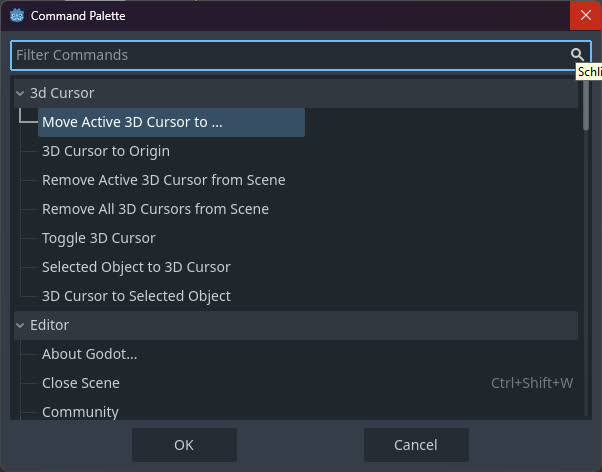
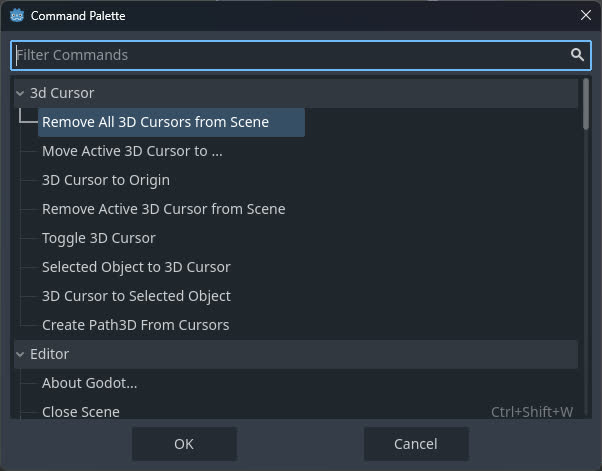
Updated Videos, Screenshots, CHANGELOG, and README.

diff --git a/README.md b/README.md
@@ -6,6 +6,7 @@ It provides an intuitive and precise way to place and position nodes within a 3D
 ## Features
 - Intuitive *3D Cursor* placement directly in the editor
 - Precise node placement for all `Node3D`-based nodes
+- Precise placement for points of a `Path3D`s curve
 - Multiple cursor actions via *Pie Menu*, *Command Palette* and *Settings Dock*
 - Customizable cursor appearance and behavior
 - Multiple independent *3D Cursor* instances per scene
@@ -35,6 +36,7 @@ It provides an intuitive and precise way to place and position nodes within a 3D
 | **Remove Active 3D Cursor from Scene** | Removes the active cursor from the scene and frees it.                                                                                                                                                                                                                          | *Pie Menu*, *Command Palette*, *Settings Dock* |    ❌     |
 | **Remove All 3D Cursors from Scene**   | Removes all cursors from the scene.                                                                                                                                                                                                                                             | *Pie Menu*, *Command Palette*, *Settings Dock* |    ❌     |
 | **Move Active 3D Cursor to ...**       | Moves the active cursor to either a selected `Node3D` or to coordinates extracted from dragged object properties.                                                                                                                                                               | *Command Palette*, *Settings Dock*             |    ✅     |
+| **Create Path3D From Cursors**         | Creates a new `Path3D` node as a child of a selected `Node3D`. Its curve is built from all 3D Cursor positions in the active scene, ordered alphabetically.<br><br>![Create Path3D From All Cursors](videos/path_3d_from_all_cursors.gif)                                       | *Command Palette*, *Settings Dock*             |    ❌     |
 
 ## Pie Menu
 The *Pie Menu* provides quick access to common *3D Cursor* actions directly within the editor.
@@ -50,7 +52,7 @@ The *Pie Menu* provides quick access to common *3D Cursor* actions directly with
 
 ### Raycast Mode
 - **Physicsless**: Does not require collision shapes to calculate the mouse click position, allowing physics to run on another thread. Compatible with **Terrain3D** by *TokisanGames*.
-- **Physics** *(Legacy)*: Requires collision shapes to calculate the mouse click position. Physics must not run on another thread. Partially compatible with **Terrain3D** by *TokisanGames* (see issue ![#3](https://github.com/Dev-Marco/Godot-3D-Cursor/issues/6)).
+- **Physics** *(Legacy)*: Requires collision shapes to calculate the mouse click position. Physics must not run on another thread. Partially compatible with **Terrain3D** by *TokisanGames* (see issue [#3]).
 
 ![Raycast Mode](screenshots/settings_dock_raycast_mode.jpg)
 
@@ -100,6 +102,15 @@ Dragging a valid node or object property onto the button reveals the extracted t
 
 ![Move Active 3D Cursor to](videos/drag_node_on_move_button.gif)
 
+### Path3D Compatibility
+When a `Path3D` node is selected in the scene tree, adding a new point to its curve will place the point at the position of the active 3D Cursor. This requires exactly one selected node and an active 3D Cursor.
+
+![Path3D Point to Cursor](videos/path_3d_point_to_cursor.gif)
+
+When a single `Path3D` node is selected, additional points can be added directly to its curve by placing extra cursors using `Shift + Ctrl + Right Click`. New points are always appended to the end of the curve.
+
+![Path3D Point on New Cursor](videos/path_3d_point_on_new_cursor.gif)
+
 ## Quick Start
 - Enable the plugin
 - Within a 3D scene, use `Shift + Right Click` on any mesh-based node or node inheriting from `CSGShape3D` to place a *3D Cursor*
@@ -114,6 +125,10 @@ Dragging a valid node or object property onto the button reveals the extracted t
 
   **Workaround:** Press `F` to reset the editor focus and restore the expected navigation behavior.
 - A more robust solution is being investigated, but this behavior is currently caused by editor-internal state handling.
+
+### Plugin Compatibility
+If you are developing a Godot plugin or addon and believe compatibility with this plugin would be useful, feel free to reach out.
+Compatibility and integration are handled on this plugin’s side where possible.
 
 ## Requirements
 - **Godot 4.2** or newer

diff --git a/CHANGELOG.md b/CHANGELOG.md
@@ -13,6 +13,20 @@ and this project adheres to [Semantic Versioning](https://semver.org/spec/v2.0.0
 > - **1.4.x (LTS)** supports **Godot 4.2+** and receives bug fixes only.
 > - **2.x.x** supports **Godot 4.5+** and receives new features and improvements.
 
+## [2.1.0] - 2026-01-22
+
+### Added
+
+- **Compatibility with `Path3D`**
+	- When a `Path3D` node is selected in the scene tree, adding a new point to its curve will place the point at the position of the active 3D Cursor. This requires exactly one selected node and an active 3D Cursor.
+	- When a single `Path3D` node is selected, additional points can be added directly to its curve by placing extra cursors using `Shift + Ctrl + Right Click`. New points are always appended to the end of the curve.
+
+- **Create Path3D From Cursors**
+	- Added a *Create Path3D From Cursors* button to the settings dock.
+	- Added a *Create Path3D From Cursors* action to the command palette.
+	- Clicking the button opens a node selector to choose a parent node.
+	- A new `Path3D` node is created as a child of the selected node. Its curve is built from all 3D Cursor positions in the active scene, ordered alphabetically.
+
 ## [2.0.1] - 2026-01-07
 
 ### Fixed
